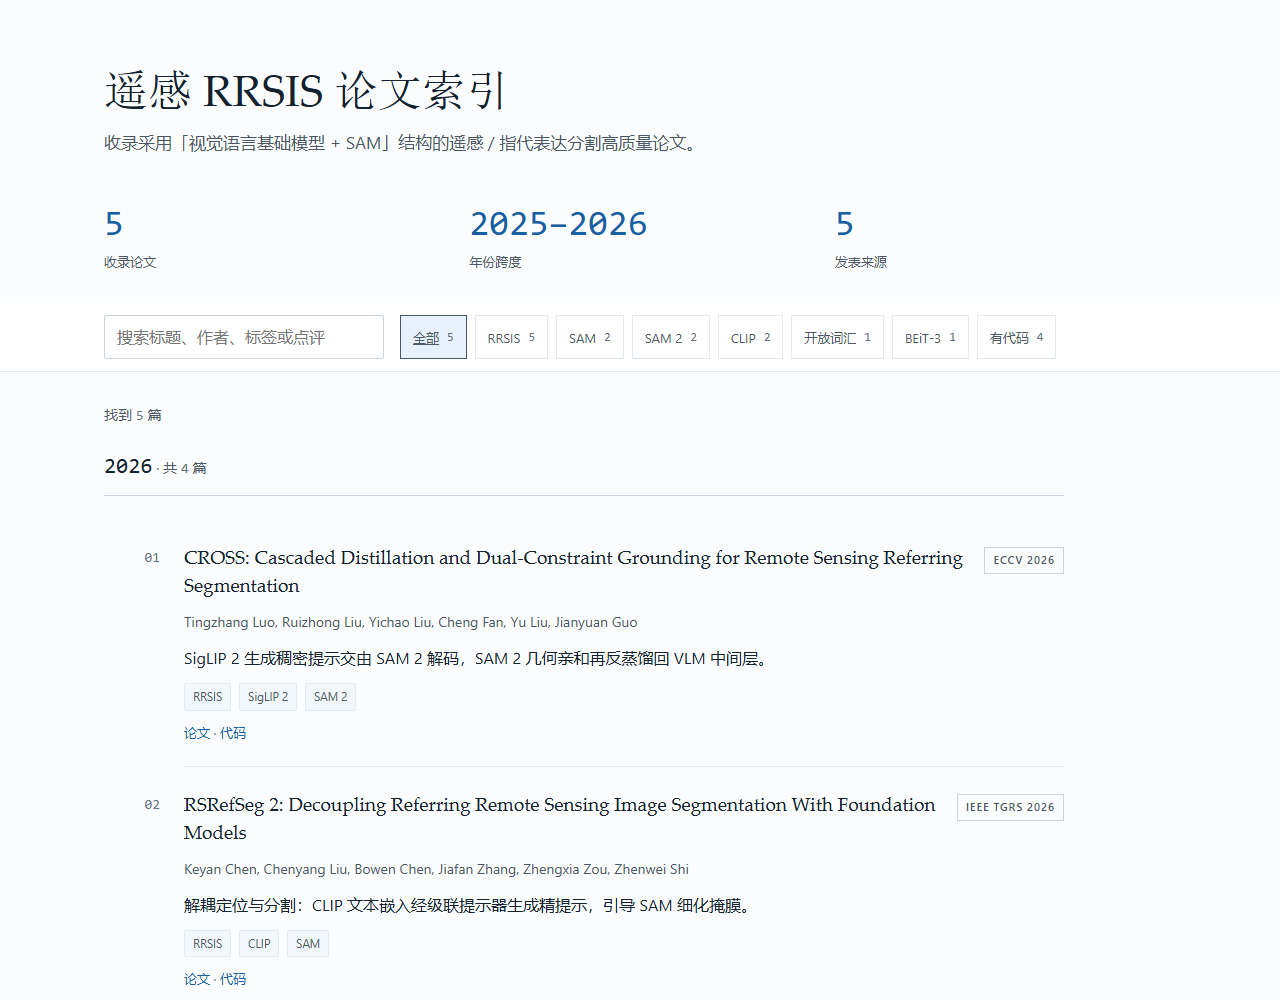
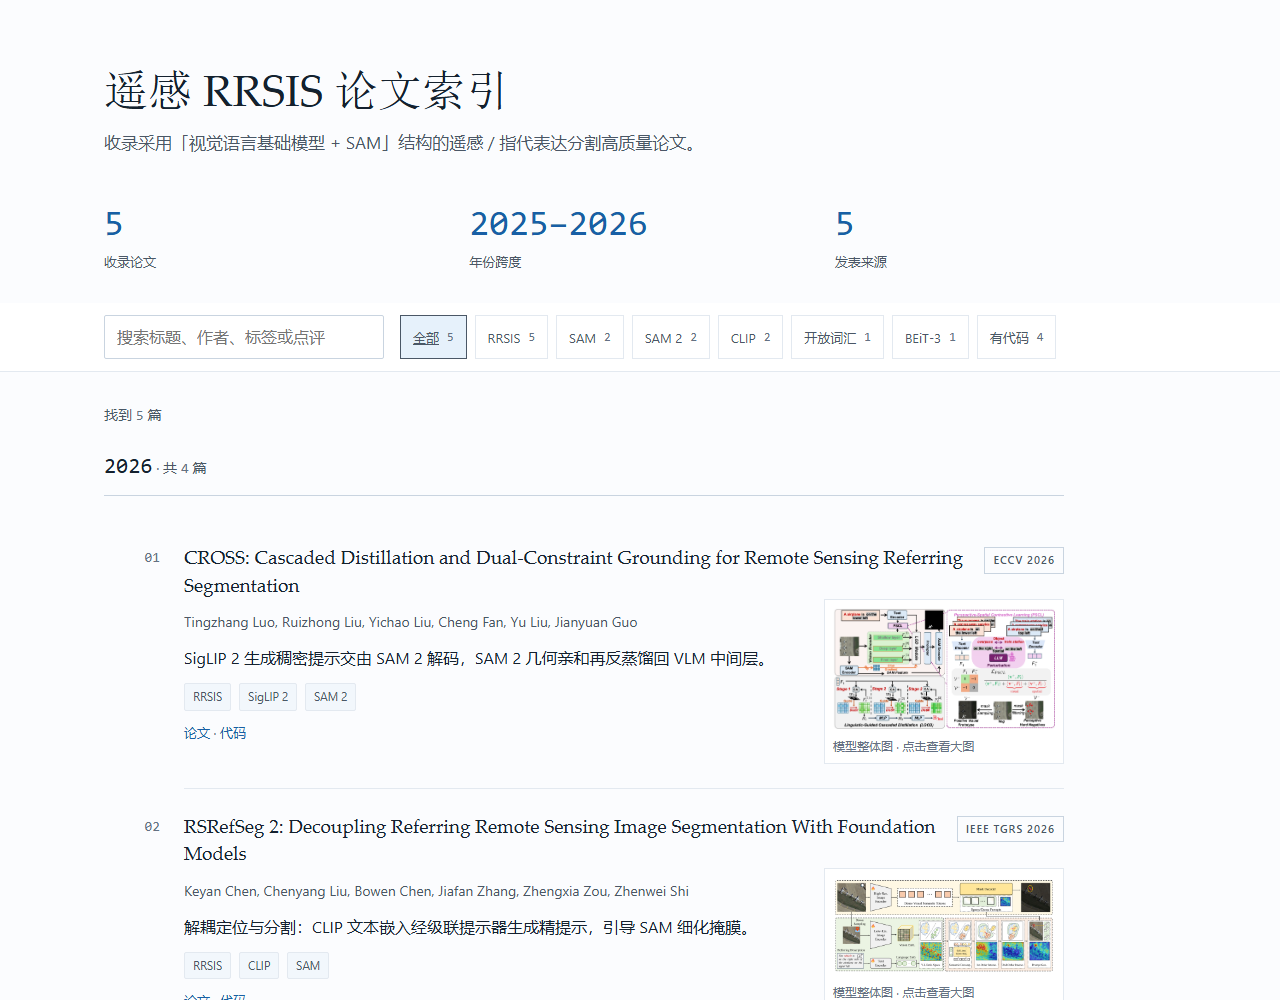
feat: 论文条目附原文模型整体架构图

Changed region(s): [[0.125, 0.589, 0.8438, 1.0], [0.625, 0.868, 0.8438, 1.0]]

diff --git a/assets/app.js b/assets/app.js
@@ -38,6 +38,11 @@
     }
   }
 
+  // 站内图片相对路径白名单：只接受 assets/figures/<id>.png；不复用 isHttpsUrl（那是绝对 https）。
+  function isFigureSrc(s) {
+    return typeof s === 'string' && /^assets\/figures\/[A-Za-z0-9_-]+\.png$/.test(s);
+  }
+
   // 逐条校验；坏记录 console.warn 后跳过，保证页面不崩（S6）。
   function normalize(p, seen) {
     if (!p || typeof p !== 'object' || Array.isArray(p)) {
@@ -86,11 +91,27 @@
     var note = (typeof p.note === 'string' && p.note.trim()) ? p.note : null;
     var demo = p.demo === true;
 
+    // figure 选填：任一字段非法则 warn 后降级为 null（该条按无图渲染），不拖垮整条记录。
+    var figure = null;
+    if (p.figure !== undefined && p.figure !== null) {
+      var f = p.figure;
+      if (!f || typeof f !== 'object' || Array.isArray(f) ||
+          !isFigureSrc(f.src) ||
+          typeof f.alt !== 'string' || !f.alt.trim() ||
+          !Number.isInteger(f.w) || f.w <= 0 ||
+          !Number.isInteger(f.h) || f.h <= 0) {
+        warn('figure 非法，按无图处理：' + p.id, p);
+      } else {
+        figure = { src: f.src, alt: f.alt, w: f.w, h: f.h };
+      }
+    }
+
     seen[p.id] = true;
     return {
       id: p.id, title: p.title, authors: p.authors.slice(), year: p.year,
       venue: p.venue, venueType: p.venueType, tags: tags, comment: p.comment,
-      paperUrl: p.paperUrl, codeUrl: codeUrl, note: note, demo: demo
+      paperUrl: p.paperUrl, codeUrl: codeUrl, note: note, demo: demo,
+      figure: figure
     };
   }
 
@@ -141,6 +162,45 @@
 
   function pad2(n) { return n < 10 ? '0' + n : String(n); }
 
+  // 模型整体图：figure > a > img + sr-only 提示，figcaption 用 makeDot 拼中性分隔符。
+  // img 加载失败时隐藏 figure 并移除 body 两列类，使条目退回单列。
+  function makeFigure(f, body) {
+    var fig = document.createElement('figure');
+    fig.className = 'paper-figure';
+
+    var a = document.createElement('a');
+    a.href = f.src;
+    a.target = '_blank';
+    a.rel = 'noopener noreferrer';
+
+    var img = document.createElement('img');
+    img.addEventListener('error', function () {
+      fig.hidden = true;
+      body.classList.remove('paper-body--with-fig');
+    });
+    img.src = f.src;
+    img.alt = f.alt;
+    img.width = f.w;
+    img.height = f.h;
+    img.loading = 'lazy';
+    img.decoding = 'async';
+    a.appendChild(img);
+
+    var hint = document.createElement('span');
+    hint.className = 'sr-only';
+    hint.textContent = '（在新标签页查看大图）';
+    a.appendChild(hint);
+    fig.appendChild(a);
+
+    var cap = document.createElement('figcaption');
+    cap.appendChild(makeTextNode('模型整体图'));
+    cap.appendChild(makeDot());
+    cap.appendChild(makeTextNode('点击查看大图'));
+    fig.appendChild(cap);
+
+    return fig;
+  }
+
   function renderPaper(p, num) {
     var art = document.createElement('article');
     art.className = 'paper';
@@ -154,6 +214,16 @@
 
     var body = document.createElement('div');
     body.className = 'paper-body';
+
+    // 无图：段落直接挂 body，维持原有 DOM 顺序（零回归）。
+    // 有图：body 加两列类，段落收进 .paper-text（左列），figure 放右列。
+    var hasFig = !!p.figure;
+    var container = body;
+    if (hasFig) {
+      body.classList.add('paper-body--with-fig');
+      container = document.createElement('div');
+      container.className = 'paper-text';
+    }
 
     // 标题行：标题（可点击跳原文）+ 示意标记（demo 驱动）+ 徽章（venue + 空格 + year，年份不切 mono）
     var head = document.createElement('div');
@@ -188,17 +258,20 @@
     head.appendChild(badge);
     body.appendChild(head);
 
+    // head 之后挂 .paper-text，保证 DOM 顺序 head → text → figure（<900px 时图整宽置底）。
+    if (hasFig) body.appendChild(container);
+
     // 作者行：只写作者，禁用 ·，允许折行不截断
     var authorsEl = document.createElement('p');
     authorsEl.className = 'paper-authors';
     appendAuthors(authorsEl, p.authors);
-    body.appendChild(authorsEl);
+    container.appendChild(authorsEl);
 
     // 正文点评：16px 任何断点不缩
     var commentEl = document.createElement('p');
     commentEl.className = 'paper-comment';
     commentEl.textContent = p.comment;
-    body.appendChild(commentEl);
+    container.appendChild(commentEl);
 
     // note -> 「注 · 」标签
     if (p.note) {
@@ -207,7 +280,7 @@
       noteEl.appendChild(makeTextNode('注'));
       noteEl.appendChild(makeDot());
       noteEl.appendChild(makeTextNode(p.note));
-      body.appendChild(noteEl);
+      container.appendChild(noteEl);
     }
 
     // 方法标签
@@ -220,7 +293,7 @@
         s.textContent = t;
         tagsEl.appendChild(s);
       });
-      body.appendChild(tagsEl);
+      container.appendChild(tagsEl);
     }
 
     // 链接行「论文 · 代码」；codeUrl 为 null 时保留位置渲染「代码未公开」纯文本
@@ -236,7 +309,9 @@
       nc.textContent = '代码未公开';
       linksEl.appendChild(nc);
     }
-    body.appendChild(linksEl);
+    container.appendChild(linksEl);
+
+    if (hasFig) body.appendChild(makeFigure(p.figure, body));
 
     art.appendChild(idxCol);
     art.appendChild(body);

diff --git a/data/papers.js b/data/papers.js
@@ -20,6 +20,8 @@
  *   paperUrl  必填，https URL
  *   codeUrl   选填，https URL 或 null；为 null 时渲染「代码未公开」纯文本（不隐藏该位置）
  *   note      选填，短备注，渲染成「注 · 」标签
+ *   figure    选填，对象 { src, alt, w, h }：src 为站内相对路径 assets/figures/<id>.png，
+ *             alt 为中文结构描述，w/h 为图片原始像素宽高；缺失或非法时该条目不渲染图
  *   demo      选填，仅记录级；示意条目为 true
  *
  * 说明：不新增 affiliation（机构）字段；作者行只写作者、不写机构/venue/类型。
@@ -44,6 +46,11 @@ window.PAPERS = {
       venueType: "conference",
       tags: ["RRSIS", "SigLIP 2", "SAM 2"],
       comment: "SigLIP 2 生成稠密提示交由 SAM 2 解码，SAM 2 几何亲和再反蒸馏回 VLM 中间层。",
+      figure: {
+        src: "assets/figures/luo2026cross.png",
+        alt: "CROSS 模型整体架构图：SigLIP 2 与 SAM 2 紧耦合，几何亲和级联蒸馏回 VLM 中间层，并以空间反事实对比约束定位。",
+        w: 1038, h: 564
+      },
       paperUrl: "https://media.eventhosts.cc/Conferences/ECCV2026/pdfs/9662.pdf",
       codeUrl: "https://github.com/Clarence-CV/CROSS"
     },
@@ -56,6 +63,11 @@ window.PAPERS = {
       venueType: "preprint",
       tags: ["RRSIS", "CLIP", "SAM"],
       comment: "CLIP 文本语义过滤视觉激活，经 AttnPrompter 转成 SAM 提示；两个骨干用 LoRA 微调。",
+      figure: {
+        src: "assets/figures/chen2025rsrefseg.png",
+        alt: "RSRefSeg 模型整体架构图：CLIP 视觉与文本编码经 AttnPrompter 生成稀疏及稠密提示，引导 SAM 编码器与解码器输出掩膜。",
+        w: 1400, h: 524
+      },
       paperUrl: "https://arxiv.org/abs/2501.06809",
       codeUrl: "https://github.com/KyanChen/RSRefSeg"
     },
@@ -68,6 +80,11 @@ window.PAPERS = {
       venueType: "journal",
       tags: ["RRSIS", "CLIP", "SAM"],
       comment: "解耦定位与分割：CLIP 文本嵌入经级联提示器生成精提示，引导 SAM 细化掩膜。",
+      figure: {
+        src: "assets/figures/chen2026rsrefseg2.png",
+        alt: "RSRefSeg 2 模型整体架构图：高低分辨率视觉编码与文本编码解耦，生成稠密视觉语义 token 和稀疏提示送入掩膜解码器。",
+        w: 1400, h: 616
+      },
       paperUrl: "https://doi.org/10.1109/TGRS.2025.3647535",
       codeUrl: "https://github.com/KyanChen/RSRefSeg2"
     },
@@ -80,6 +97,11 @@ window.PAPERS = {
       venueType: "conference",
       tags: ["RRSIS", "BEiT-3", "SAM 2"],
       comment: "BEiT-3 联合编码图文，双向层次融合把文本注入 SAM2 编码器，伪掩码作密集提示。",
+      figure: {
+        src: "assets/figures/rong2026rs2sam2.png",
+        alt: "RS2-SAM2 模型整体架构图：联合编码器与双向层次融合模块把文本注入 SAM2 编码器，掩膜提示生成器驱动 SAM2 解码器。",
+        w: 1400, h: 725
+      },
       paperUrl: "https://arxiv.org/abs/2503.07266",
       codeUrl: "https://github.com/rongfu-dsb/RS2-SAM2"
     },
@@ -92,6 +114,11 @@ window.PAPERS = {
       venueType: "conference",
       tags: ["RRSIS", "训练无关", "开放词汇"],
       comment: "CLIP 为 SAM 网格提案打分，Qwen-VL 生成点击提示，全程免训练或仅 LoRA 微调。",
+      figure: {
+        src: "assets/figures/sosa2026trainfree.png",
+        alt: "训练免微调方法整体示意图：对比式与生成式 VLM 直接配合 SAM，无需额外的掩膜解码器或适配器。",
+        w: 1400, h: 336
+      },
       paperUrl: "https://arxiv.org/abs/2602.17799",
       codeUrl: null,
       note: "通用文本分割框架，亦在 RRSIS-D 上评测"

diff --git a/assets/style.css b/assets/style.css
@@ -279,6 +279,29 @@ main{ max-width:var(--page-max); margin:0 auto; padding:32px 24px 64px; }
 .paper-links a:hover{ color:var(--accent-hover); text-decoration:underline; }
 .no-code,.link-plain{ color:var(--text-3); }
 
+/* 模型整体图：默认（<900px）为整宽置底的普通块级；≥900px 两列见下方断点 */
+.paper-figure{
+  margin:16px 0 0;
+  padding:8px;
+  border:1px solid var(--line-2);
+  background-color:var(--surface);
+  transition:border-color 120ms;
+}
+.paper-figure[hidden]{ display:none; }
+.paper-figure a{ display:block; cursor:zoom-in; }
+.paper-figure img{
+  display:block;
+  max-width:100%; height:auto;
+  object-fit:contain;
+}
+.paper-figure figcaption{
+  margin-top:8px;
+  font-size:12px;
+  color:var(--text-3);
+  text-align:left;
+  font-family:var(--font-sans);
+}
+
 /* 空状态 */
 .empty-filter,.empty-library{ margin:24px 0; max-width:var(--content-max); }
 .empty-filter[hidden],.empty-library[hidden]{ display:none; }
@@ -306,6 +329,20 @@ main{ max-width:var(--page-max); margin:0 auto; padding:32px 24px 64px; }
 }
 @media (hover:hover){
   .paper-title-link:hover{ color:var(--accent-hover); text-decoration:underline; }
+  .paper-figure:hover{ border-color:var(--line-3); }
+}
+
+/* 两列只在 ≥900px 启用：768–899px 正文列会被压到约 300px，阅读性太差 */
+@media (min-width:900px){
+  .paper-body--with-fig{
+    display:grid;
+    grid-template-columns:minmax(0,1fr) 240px;
+    column-gap:24px;
+    align-items:start;
+  }
+  .paper-body--with-fig .paper-head{ grid-column:1 / -1; }
+  .paper-body--with-fig .paper-text{ grid-column:1; grid-row:2; min-width:0; }
+  .paper-body--with-fig .paper-figure{ grid-column:2; grid-row:2; align-self:start; margin-top:0; }
 }
 
 /* 断点 768 */
@@ -332,6 +369,7 @@ main{ max-width:var(--page-max); margin:0 auto; padding:32px 24px 64px; }
   .stats-inline{ display:block; }
   .paper{ grid-template-columns:24px 1fr; gap:12px; }
   .paper::before{ display:none; }
+  .paper-figure{ padding:6px; margin-top:16px; }
 }
 
 @media (prefers-reduced-motion: reduce){
@@ -339,7 +377,7 @@ main{ max-width:var(--page-max); margin:0 auto; padding:32px 24px 64px; }
 }
 @media (forced-colors: active){
   .badge,.chip,.method-tag,.demo-mark,.search-input,.btn,
-  .toolbar,.demo-banner,.group-title,.paper-body{
+  .toolbar,.demo-banner,.group-title,.paper-body,.paper-figure{
     border:1px solid CanvasText;
   }
 }

diff --git a/docs/maintenance.md b/docs/maintenance.md
@@ -40,6 +40,7 @@
 | `paperUrl` | 是 | `https://` 论文链接；**点击论文标题**或条目底部「论文」均在新标签页打开此地址 |
 | `codeUrl` | 否 | `https://` 或 `null`；为 `null` 时显示「代码未公开」 |
 | `note` | 否 | 短备注，渲染成 `注 · ` 标签 |
+| `figure` | 否 | 对象 `{ src, alt, w, h }`：`src` 为站内相对路径 `assets/figures/<id>.png`，`alt` 为中文结构描述，`w`/`h` 为原始像素宽高（防布局跳动）；渲染成条目右侧的模型整体图，点击可在新标签页查看大图。缺失或非法时该条目不渲染图 |
 | `demo` | 否 | 仅记录级；示意条目为 `true` |
 
 不设机构（affiliation）字段；作者行只写作者，不写机构、venue 或类型。
@@ -49,11 +50,12 @@
 1. 打开 `data/papers.js`。
 2. 往 `papers` 数组**最前面**加一条对象即可置顶（按年份倒序分组，组内保持数组原顺序）。
 3. 按字段表填齐必填字段；`tags` 只能用 `tagWhitelist` 里已有的标签，确需新标签时先加进 `tagWhitelist`。
-4. 保存并刷新 `index.html`。
+4. 配图（可选）：从论文 PDF 裁出模型整体架构图，存为 `assets/figures/<id>.png`，保留原始比例、不要裁进页眉或正文；在记录里填 `figure` 的 `src`/`alt`/`w`/`h`（`w`/`h` 为图片原始像素宽高）。不填或填错则该条目不渲染图，不影响其它内容。
+5. 保存并刷新 `index.html`。
 
 ## 当前收录状态
 
-2026-11-09 已清除全部 `demo` 版式示意条目；2026-11-10 新增 ECCV 2026 的 CROSS，现有 **5 篇真实收录**（CROSS、RSRefSeg、RSRefSeg 2、RS2-SAM2、Training-Free Text-Based RS Segmentation）。演示 banner 由 `papers.some(p => p.demo)` 驱动，无 demo 记录时自动隐藏。
+2026-11-09 已清除全部 `demo` 版式示意条目；2026-11-10 新增 ECCV 2026 的 CROSS，现有 **5 篇真实收录**（CROSS、RSRefSeg、RSRefSeg 2、RS2-SAM2、Training-Free Text-Based RS Segmentation），且 5 篇均已配模型整体图。演示 banner 由 `papers.some(p => p.demo)` 驱动，无 demo 记录时自动隐藏。
 
 若日后需要临时预览版式，可给条目加 `demo: true`（并填 `note` 说明非真实收录），删掉即恢复；不要为示意条目虚构会议收录或方法结论。
 

diff --git a/README.md b/README.md
@@ -10,4 +10,4 @@
 
 收录口径较严：视觉语言基础模型指经图文联合预训练的跨模态模型（CLIP、BEiT-3、SigLIP 2、Qwen-VL 等），纯文本编码器、纯视觉骨干、文生图扩散模型均不计入；SAM 须作为分割骨干实际参与。目前收录 5 篇（2025–2026）。
 
-索引界面为期刊式浅色版式，支持关键词搜索、方法标签筛选与按年份倒序分组，点击论文标题即可跳转原文。站点是纯静态 HTML / CSS / 原生 JS，无构建、无依赖、不加载 CDN，双击 `index.html` 或访问上方在线地址看到的是同一套内容。
+索引界面为期刊式浅色版式，支持关键词搜索、方法标签筛选与按年份倒序分组，点击论文标题即可跳转原文，每条还附论文原文的模型整体架构图。站点是纯静态 HTML / CSS / 原生 JS，无构建、无依赖、不加载 CDN，双击 `index.html` 或访问上方在线地址看到的是同一套内容。
